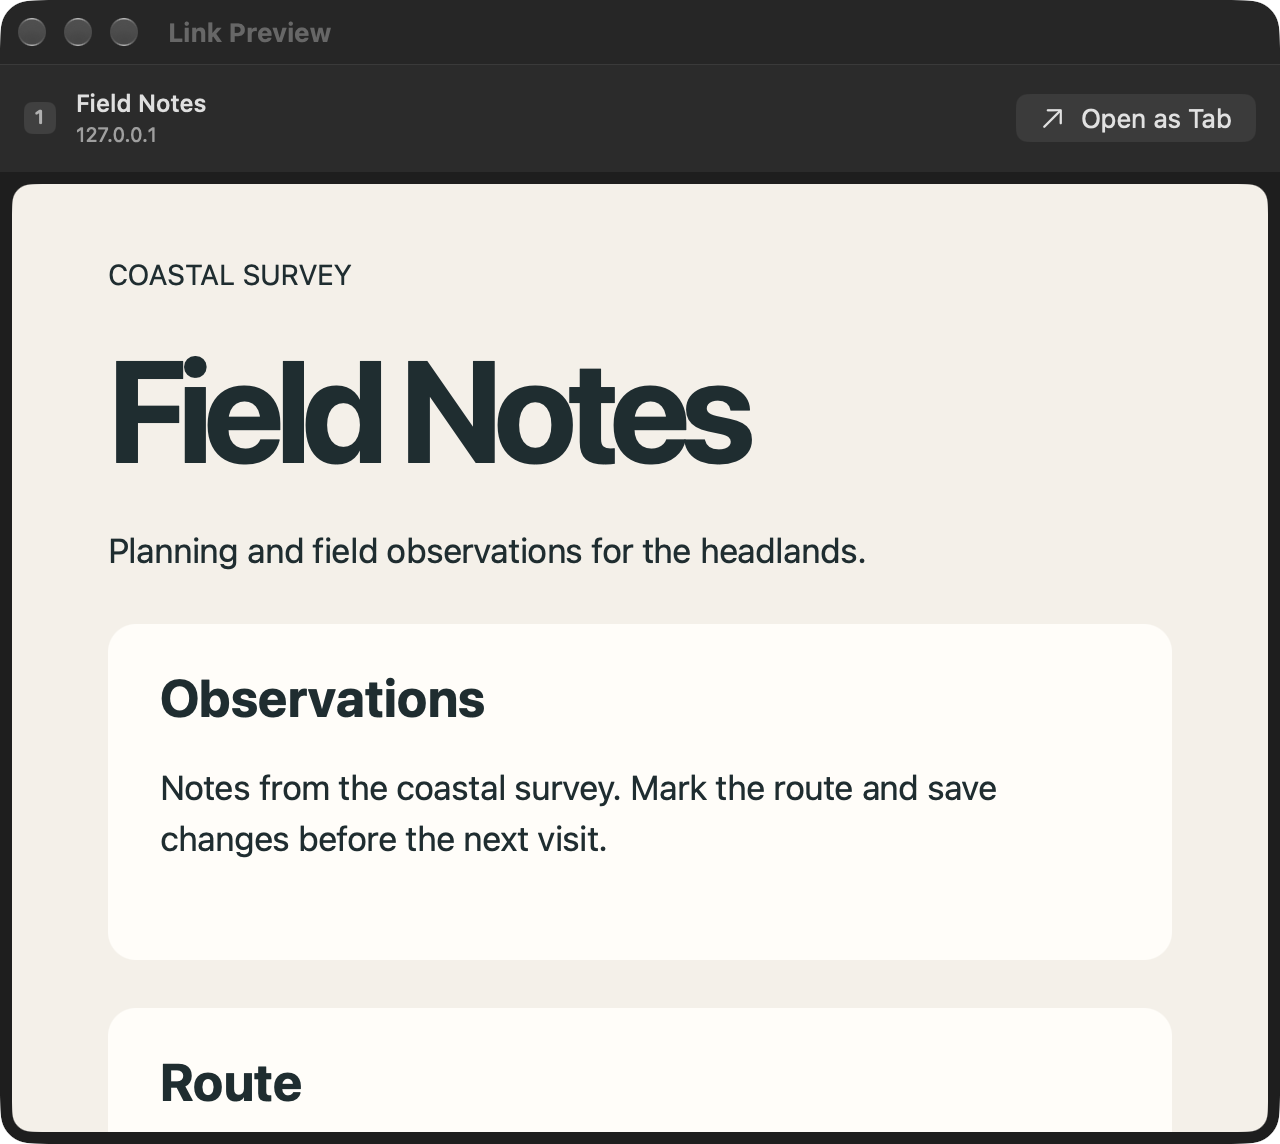
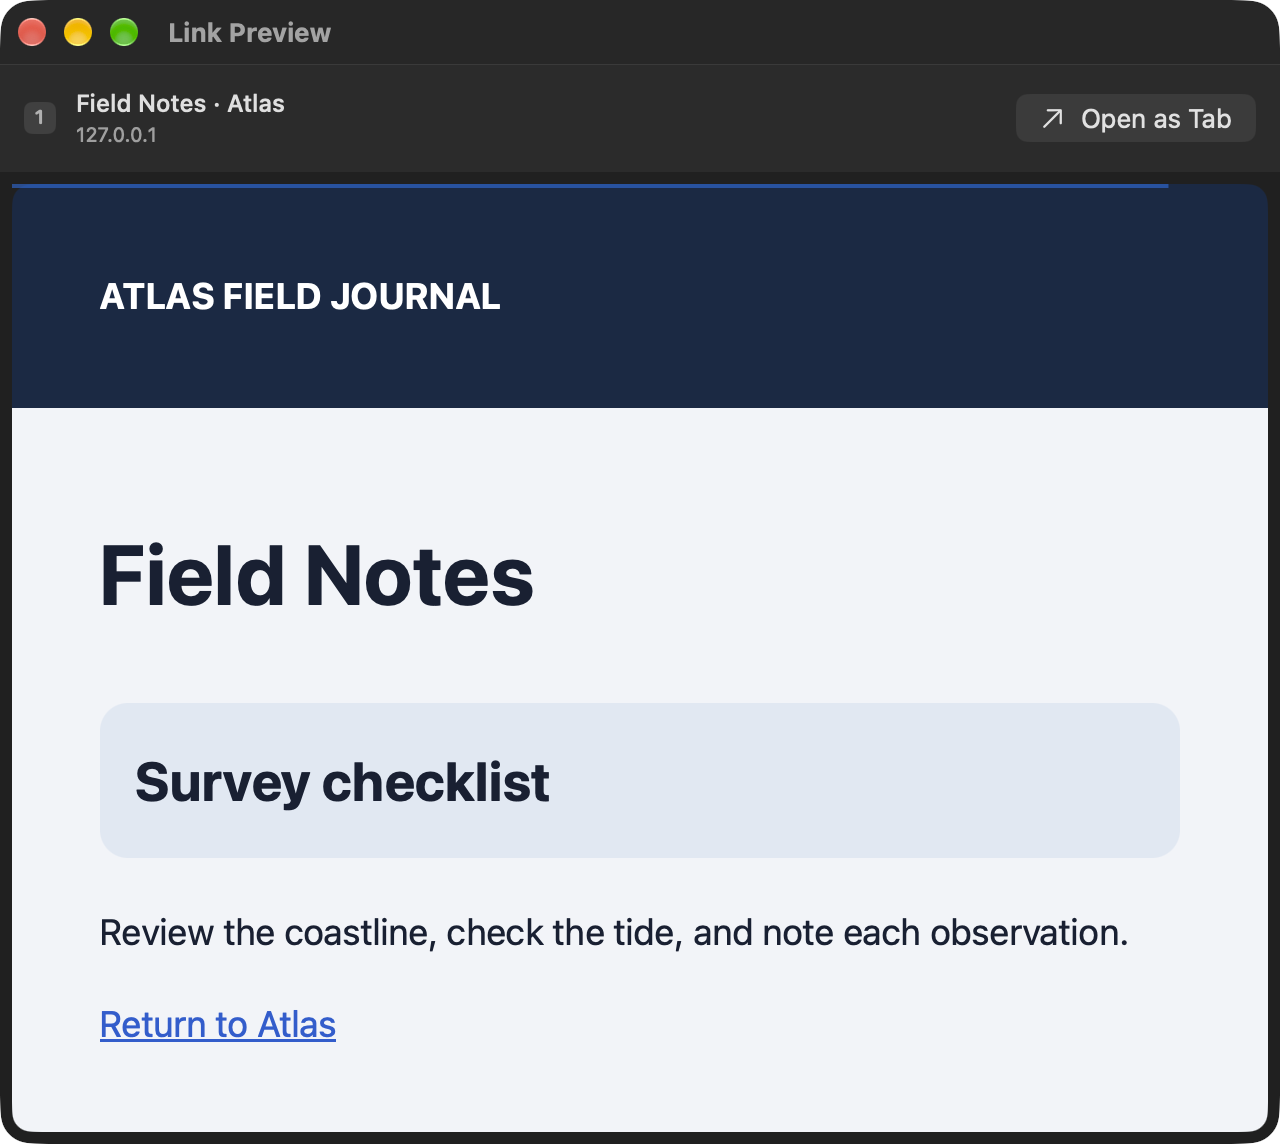
docs(ark): refresh verified mac feature previews

diff --git a/vx/TODO/ark-sync-log.md b/vx/TODO/ark-sync-log.md
@@ -14,6 +14,10 @@ SnapshotTour audit attempt — November 26: the current Debug Ark bundle launche
 
 SnapshotTour follow-up — November 26: copied the current Debug bundle to a temporary, ad-hoc-signed app with the distinct identifier `app.vezham.ark.snapshot.audit`, so it could run without disturbing the existing Ark window. The isolated tour exited normally and generated all fourteen standard screen previews: launch, page, command bar, reader, second-window move, Space switch, light/dark appearance, sidebar hidden/peeking, and light/dark Audio settings. Its report verified reader presentation, opening/moving/closing the second window, and inner-scroll restoration at 1,200 px after a sleeping-page unload. This is current Mac runtime evidence; it does not cover the separate feature-preview branch or device checks.
 
+HTTP feature SnapshotTour — November 26: the same isolated bundle ran the existing feature branch against the loopback-only fixture at `127.0.0.1`. It verified Today and Glance destinations from a pinned page while retaining the source pin; Split View focus, both orientations, reopening, partner close, and archive protection; full-page, 600×360 region, and element-bounds capture; Recent Tabs keyboard selection; Link Preview promotion/close; nested-folder drag, bulk move/undo, range selection, and Open All order; Arc folder import; Boost font/CSS persistence, host/private isolation, and clearing; Easels page/note/capture data; export/import dialogs; and the local Sync coordinator’s arrive/retain/withdraw cycle. Fresh versions of the affected Mac previews are now tracked under `preview/ark/mac/features/`.
+
+The same run left two concrete failures open: the static local feed did not produce a changed article set, so Live Folder discovery/refresh did not establish stable-ID evidence; and the fixture’s Space-profile reassignment/transfer assertions returned false after the base named-profile cookie checks passed. Live Folders and mobile/device profile flows remain Partial. No simulator was launched.
+
 Adapted Search `464240b` for Ark’s own Boost implementation. New element picks whose selector can move now persist a bounded DOM fingerprint and stable class family. An isolated WebKit-world observer reapplies the hide only when exactly one matching element exists after a site constructs or rearranges its content; it will not hide a different item that occupies the old position. Existing saved selectors intentionally remain plain CSS for backward compatibility. The existing BrowserKit test target passed all 79 tests, including persistence and deterministic-marker coverage. This is implementation evidence, not dynamic-page runtime parity; the Boosts row stays Partial.
 
 Partially adapted Search `b9fcbb45` without copying its UI: in Ark’s existing Mac picker, Option-click hides a stable class family only when more than one related element exists; plain click continues to hide one selected element. The saved pattern uses the existing host-scoped Boost CSS and restores through the same list. `ark:build-mac --skip-nx-cache` passed. The picker does not yet preview the related count and mobile requires a dedicated touch interaction, so the Boosts row remains Partial.
